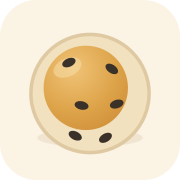
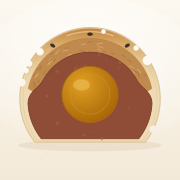
feat: 图标改用产品卡里那张「笑笑经典蛋黄酥」剖面图
原来是自己另画的俯视图，现在直接取 public/images/products/classic.svg ——
产品图改了图标跟着变，不会两处画风不一致。

做法：把 classic.svg 的内部内容抽出来，去掉它自带的整幅背景
（留着方形背景会把圆角盖掉），缩到 512 方形里居中，剖面占边长 78%
（铺满的话缩到 16px 会糊成一团），外面套圆角米色底。

修一个 iOS 的坑：主屏图标不能有透明像素，否则 iOS 会把圆角外填成黑色、
主屏上出现四个黑角。所以 favicon 用圆角版、apple-touch-icon 用不透明方形版
（圆角交给 iOS 自己加）。实测 alpha 最小值 255 = 完全不透明。

图标脚本对产品图有依赖，产品图不在会明确提示先跑 npm run placeholders。

校验：.ico 5879 字节 3 张图（16/32/48，PNG 头均正确）；
favicon.ico / apple-touch-icon.png 均 200；12/12 图片；五图一致；无 4xx/5xx。

diff --git a/README.md b/README.md
@@ -221,13 +221,17 @@ public/images/
 
 | 文件 | 用途 |
 | --- | --- |
-| `public/favicon.svg` | 浏览器标签页图标（现代浏览器），画的是俯视的经典蛋黄酥 |
+| `public/favicon.svg` | 浏览器标签页图标（现代浏览器） |
 | `public/favicon.ico` | 老浏览器、微信内置浏览器；内含 16 / 32 / 48 三个尺寸 |
 | `public/apple-touch-icon.png` | iOS「添加到主屏幕」用的 180×180 |
 | `public/images/hero/og.png` | 社交分享图，1200×630，从 `og.svg` 渲染 |
 
-- 改图标：编辑 `scripts/generate-icons.mjs` 里的 `iconSvg()`，然后 `npm run icons`。
-- 图标里的芝麻**故意画得比真实比例大很多** —— 缩到 16px 时，按真实比例画的芝麻会完全看不见。
+- 图标**直接取自产品卡里那张「笑笑经典蛋黄酥」的剖面图**
+  （`public/images/products/classic.svg`），所以产品图改了图标也会跟着变。
+- 顺序有依赖：先 `npm run placeholders` 生成产品图，再 `npm run icons`。产品图不在会报错提醒。
+- 图标里剖面占边长的 78%（`COVER`），四周留一圈米色 —— 铺满的话缩到 16px 会糊成一团。
+- 想要别款产品当图标：改 `generate-icons.mjs` 里 `cutawayContent()` 读的那个文件，
+  和 `ART_BOX`（该剖面在 1200×900 里的范围）。
 - `.ico` 是脚本手工拼的（ICO 允许直接内嵌 PNG），所以没有引入任何新依赖。
 
 ### 现在的占位图是怎么画出来的
